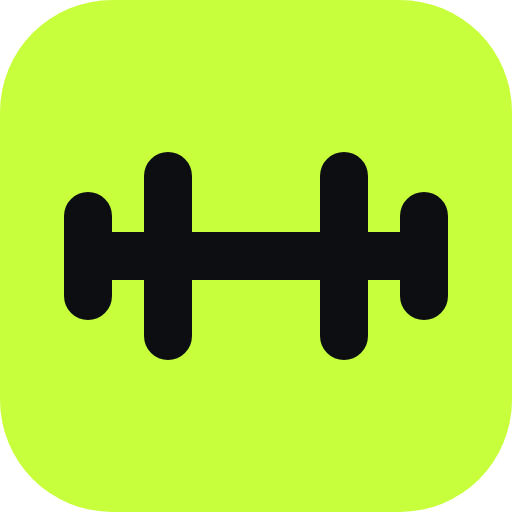
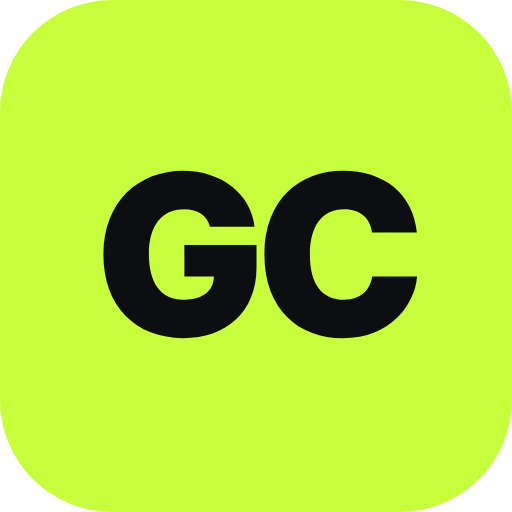
Publicar site (versão 93eea7c do meu-projeto)

Changed region(s): [[0.125, 0.2812, 0.875, 0.7188], [0.625, 0.6562, 0.7188, 0.7188], [0.625, 0.2812, 0.7188, 0.3438]]

diff --git a/index.html b/index.html
@@ -49,7 +49,7 @@
 
   <header class="topo">
     <div class="contentor topo__inner">
-      <a class="marca" href="#inicio"><svg class="marca__icone" viewBox="0 0 64 64" aria-hidden="true" focusable="false"><rect width="64" height="64" rx="14" fill="#c8ff3d"></rect><path d="M14 32h36M21 22v20M43 22v20M11 27v10M53 27v10" stroke="#0c0e11" stroke-width="6" stroke-linecap="round"></path></svg><span class="marca__texto" data-config="marca">Gonzalez Coach</span></a>
+      <a class="marca" href="#inicio"><svg class="marca__icone" viewBox="0 0 64 64" aria-hidden="true" focusable="false"><rect width="64" height="64" rx="14" fill="#c8ff3d"></rect><text x="32" y="42" text-anchor="middle" font-family="Inter, Arial, sans-serif" font-weight="900" font-size="28" fill="#0c0e11" letter-spacing="-1">GC</text></svg><span class="marca__texto" data-config="marca">Gonzalez Coach</span></a>
       <div class="topo__acoes">
         <div class="linguas" role="group" data-i18n-aria="lingua.grupo" aria-label="Língua do site">
           <button type="button" class="linguas__botao" data-lingua="pt" lang="pt" aria-pressed="true">PT</button>
